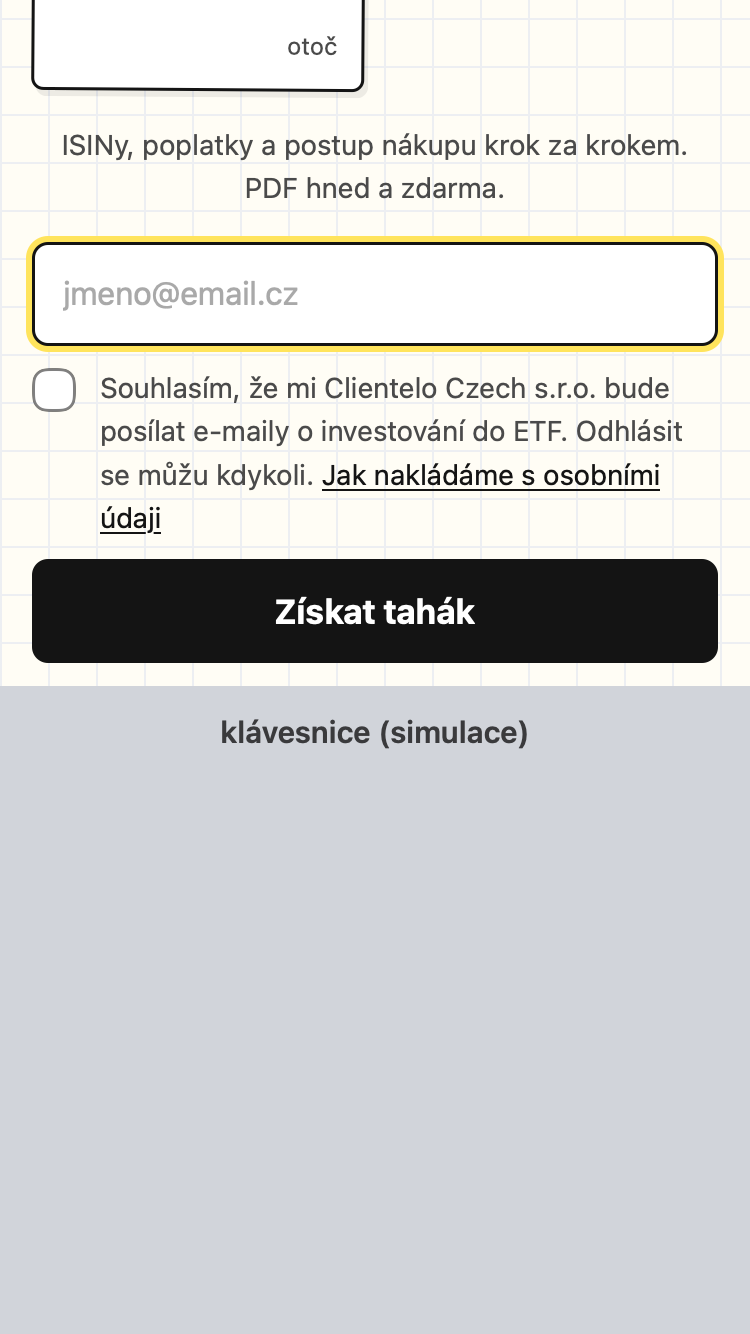
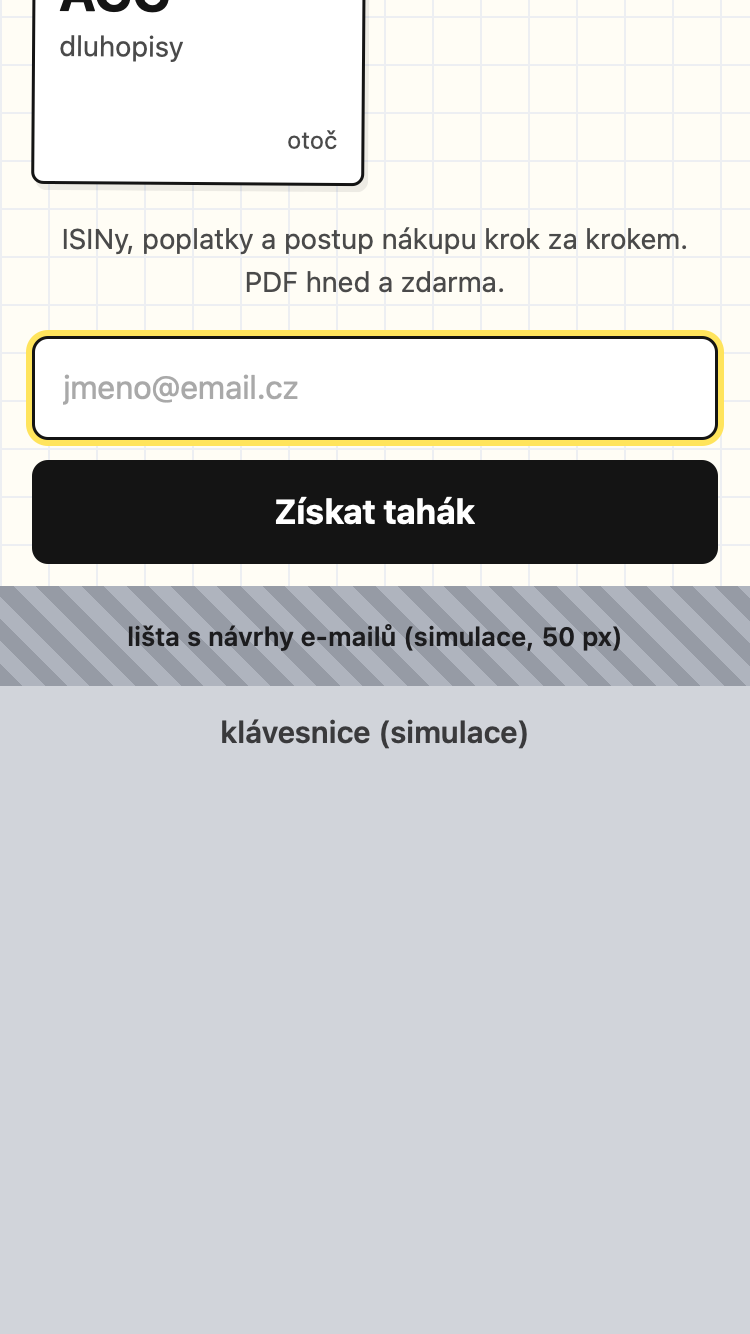
Tlačítko formuláře hned pod polem, rezerva na lištu návrhů e-mailů
Test na skutečném iPhonu (Chrome na iOS) ukázal lištu s návrhy
e-mailů nad klávesnicí, se kterou simulace nepočítala: zakryla souhlas
a tlačítko skončilo pod klávesnicí.

- pořadí ve všech formulářích: pole, tlačítko, hláška, souhlas,
- s klávesnicí drží pole a tlačítko nad rezervou 50 px na lištu
  návrhů; když se nevejde všechno, má přednost pole a tlačítko,
- enterkeyhint="send" už bylo, test teď ověřuje odeslání Enterem
  se stejnou kontrolou souhlasu,
- WebKit test kreslí lištu návrhů a kontroluje pole a tlačítko nad
  ní (na staré verzi selže), README: tohle simulace nezachytila.

Changed region(s): [[0.0, 0.0, 1.0, 0.5225], [0.46, 0.0, 0.4907, 0.0307], [0.0307, 0.0, 0.0613, 0.0307]]

diff --git a/public/index.html b/public/index.html
@@ -414,14 +414,14 @@ html{scroll-behavior:auto}
         <label class="field"><span class="field-label">Tvůj e-mail</span>
           <input type="email" name="email" autocomplete="email" inputmode="email" autocapitalize="none" spellcheck="false" enterkeyhint="send" placeholder="jmeno@email.cz" required>
         </label>
+        <button class="btn" type="submit">Získat tahák</button>
+        <p class="form-error" role="alert" hidden></p>
         <label class="consent">
           <input type="checkbox" name="consent" value="ano" required>
           <span>Souhlasím, že mi Clientelo Czech&nbsp;s.r.o. bude posílat e-maily o&nbsp;investování do ETF. Odhlásit se můžu kdykoli. <a href="ochrana-osobnich-udaju.html">Jak nakládáme s&nbsp;osobními údaji</a></span>
         </label>
-        <div class="hp" aria-hidden="true"><label>Toto pole nech prázdné <input type="text" name="web" tabindex="-1" autocomplete="off"></label></div>
-        <p class="form-error" role="alert" hidden></p>
-        <button class="btn" type="submit">Získat tahák</button>
         <p class="small">Tahák otevřeš hned po odeslání, na e-mail čekat nemusíš.</p>
+        <div class="hp" aria-hidden="true"><label>Toto pole nech prázdné <input type="text" name="web" tabindex="-1" autocomplete="off"></label></div>
       </form>
     </div>
   </div>
@@ -731,17 +731,20 @@ html{scroll-behavior:auto}
     s.marginBottom = Math.max(0, window.innerHeight - vv.height - vv.offsetTop) + 'px';
     s.maxHeight = Math.round(kb ? vv.height - 8 : vv.height * 0.92) + 'px';
   }
-  /* Pole s fokusem a tlačítko odeslat mají být nad klávesnicí; když se nevejdou obě, má přednost pole. */
+  /* Nad klávesnicí musí být vidět pole a tlačítko (je hned pod polem), a to s rezervou na lištu s návrhy
+     e-mailů: iOS ji do visualViewport nemusí započítat. Souhlas může být těsně pod nimi. Když se nevejde
+     ani pole s tlačítkem, má přednost pole. */
+  var SUGGEST_BAR = 50;
   function keepFormVisible() {
     var a = doc.activeElement;
     var form = a && a.closest && a.closest('.lead-form');
     if (!form || !keyboardOpen()) return;
-    var field = (a.closest('.field, .consent') || a).getBoundingClientRect();
+    var field = form.querySelector('.field').getBoundingClientRect();
     var btn = form.querySelector('[type=submit]').getBoundingClientRect();
     var inSheet = dialog.contains(form);
     var viewTop = inSheet ? dialog.getBoundingClientRect().top : vv.offsetTop;
     var viewH = inSheet ? dialog.clientHeight : vv.height;
-    var need = btn.bottom + 12 - (viewTop + viewH);
+    var need = btn.bottom + 12 + SUGGEST_BAR - (viewTop + viewH);
     var room = field.top - 8 - viewTop;
     var dy = need > 0 ? Math.min(need, room) : Math.min(0, room);
     if (Math.abs(dy) < 1) return;

diff --git a/README.md b/README.md
@@ -166,12 +166,13 @@ Skripty a návod jsou ve [scripts/](scripts/README.md). Všechny vracejí nenulo
   - po zavření se stránka vrátí na stejné místo a fokus na tlačítko, které panel otevřelo,
   - nic nepřetéká do šířky.
 
-  Viditelnou výšku nad klávesnicí (328 px na iPhonu 13, 343 px na SE, 244 px na 320 px) jsme odhadli pesimisticky, nenaměřili.
+  Viditelnou výšku nad klávesnicí (328 px na iPhonu 13, 343 px na SE, 244 px na 320 px) jsme odhadli pesimisticky, nenaměřili. Nad klávesnicí navíc počítá s 50px lištou s návrhy e-mailů, kterou iOS do `visualViewport` nemusí započítat: pole a tlačítko musí být celé nad ní.
+- **WebKit, průběh otočení lístku:** animaci zastaví po 100 ms a kontroluje úhel, šířku a viditelnou stranu (nikdy zrcadlově, nikdy prázdný lístek), z výřezů skládá [snímek](docs/screenshots/webkit-otoceni-listku.png).
 - **Lighthouse (mobil), data proti zdrojům, čísla na stránce proti datům, text PDF proti datům.**
 
 **Jen na skutečném telefonu:**
 
-- skutečná klávesnice iOS: její výška, lišta nad ní (šipky, Hotovo, automatické doplnění e-mailu) a to, jak Safari sám posouvá stránku k poli,
+- skutečná klávesnice iOS: její výška, lišta nad ní (šipky, Hotovo, automatické doplnění e-mailu) a to, jak Safari sám posouvá stránku k poli. **Lištu s návrhy e-mailů první simulace nezachytila, našel ji až test na reálném telefonu** (tlačítko „Získat tahák“ skončilo pod klávesnicí). Formulář má proto tlačítko hned pod polem, souhlas pod ním a rezervu 50 px,
 - plynulost otočení lístků na skutečném displeji. Průběh (úhel, šířka a viditelná strana po 100 ms) test ve WebKitu kontroluje a skládá do [snímku](docs/screenshots/webkit-otoceni-listku.png),
 - otevření a uložení PDF v Safari,
 - nativní sdílení a kopírování odkazu,

diff --git a/texty.md b/texty.md
@@ -222,6 +222,7 @@ U „Kde koupit“ jmenujeme všechny brokery, u kterých jsme dostupnost ověř
 - **Souhlas (zaškrtávací pole):** Souhlasím, že mi Clientelo Czech s.r.o. bude posílat e-maily o investování do ETF. Odhlásit se můžu kdykoli.
   - odkaz: Jak nakládáme s osobními údaji → `public/ochrana-osobnich-udaju.html` (návrh, musí schválit právník)
   - `[ROZHODNOUT + právník: smí být stažení taháku podmíněné souhlasem s marketingovými e-maily? Pokud ne, souhlas bude dobrovolný a tahák dostane každý, kdo vyplní e-mail.]`
+- **Pořadí:** pole, hned pod ním tlačítko, pak souhlas a text pod ním. Tlačítko je co nejvýš, aby ho na mobilu nezakryla klávesnice s lištou návrhů e-mailů. Odeslat jde i modrou klávesou „Odeslat“ na klávesnici (`enterkeyhint="send"`), se stejnou kontrolou souhlasu.
 - **Tlačítko:** Získat tahák
 - **Tlačítko při odesílání:** Odesílám…
 - **Pod tlačítkem:** Tahák otevřeš hned po odeslání, na e-mail čekat nemusíš.
